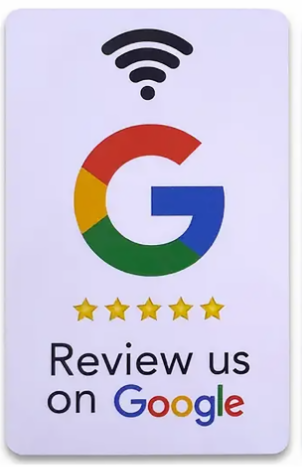
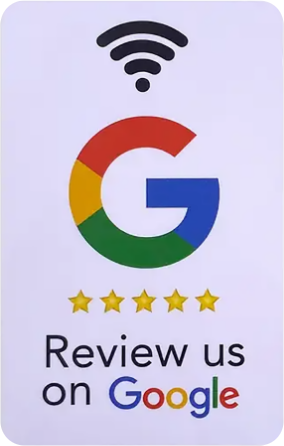
overall improvements

diff --git a/product-google.html b/product-google.html
@@ -75,20 +75,86 @@
             padding: 32px;
         }
 
-        /* 3D Vertical Card Showcase */
-        .card-showcase-scene {
+        /* 3D Vertical Card Scene */
+        .card-scene {
             perspective: 1200px;
-            display: inline-block;
+            width: 220px;
+            height: 346px;
+            margin: 0 auto;
+            user-select: none;
+            -webkit-user-select: none;
         }
 
-        .card-showcase-wrap {
-            transition: transform 0.25s ease-out, box-shadow 0.25s ease-out;
+        .card-3d-wrapper {
+            position: relative;
+            width: 100%;
+            height: 100%;
             transform-style: preserve-3d;
+            transition: transform 0.15s ease-out;
+            cursor: pointer;
         }
 
-        .card-showcase-wrap:hover {
-            transform: rotateX(6deg) rotateY(-8deg) translateY(-8px);
-            box-shadow: 0 30px 60px -15px rgba(37, 99, 235, 0.45);
+        .card-inner {
+            position: relative;
+            width: 100%;
+            height: 100%;
+            transform-style: preserve-3d;
+            transition: transform 0.7s cubic-bezier(0.4, 0, 0.2, 1);
+        }
+
+        .card-inner.is-flipped {
+            transform: rotateY(180deg);
+        }
+
+        .card-front,
+        .card-back {
+            position: absolute;
+            inset: 0;
+            width: 100%;
+            height: 100%;
+            -webkit-backface-visibility: hidden;
+            backface-visibility: hidden;
+            border-radius: 20px;
+            overflow: hidden;
+            -webkit-transform-style: flat;
+            transform-style: flat;
+            background: #ffffff;
+            box-shadow: 0 25px 60px -10px rgba(0, 0, 0, 0.75), 0 0 30px -5px rgba(59, 130, 246, 0.35);
+        }
+
+        .card-front {
+            transform: rotateY(0deg);
+            z-index: 2;
+        }
+
+        .card-back {
+            transform: rotateY(180deg);
+            z-index: 1;
+        }
+
+        .card-inner.is-flipped .card-front {
+            z-index: 1;
+        }
+
+        .card-inner.is-flipped .card-back {
+            z-index: 2;
+        }
+
+        .shine {
+            position: absolute;
+            top: 0;
+            left: 0;
+            right: 0;
+            bottom: 0;
+            border-radius: 20px;
+            background: radial-gradient(circle at 50% 50%, rgba(255, 255, 255, 0.45) 0%, transparent 70%);
+            pointer-events: none;
+            opacity: 0;
+            transition: opacity 0.3s;
+        }
+
+        .card-3d-wrapper:hover .shine {
+            opacity: 0.6;
         }
     </style>
     <link rel="stylesheet" href="lang/lang-picker.css">
@@ -135,19 +201,27 @@
                 <p class="text-blue-400 text-xs font-bold uppercase tracking-widest" data-i18n="google-hero-sub">Boost your Google Maps ranking and customer trust with 1 contactless tap.</p>
             </div>
 
-            <!-- Authentic Card Presentation -->
-            <div class="card-showcase-scene my-4">
-                <div class="card-showcase-wrap relative rounded-[28px] overflow-hidden p-2 bg-gradient-to-b from-white/20 via-blue-500/10 to-transparent border border-white/20 shadow-[0_20px_50px_-10px_rgba(0,0,0,0.8),0_0_30px_-5px_rgba(37,99,235,0.3)]">
-                    <img src="google-review.png" alt="SuperTap Google Review Card" class="w-64 sm:w-72 h-auto rounded-[24px] object-contain shadow-inner pointer-events-none">
+            <!-- Interactive 3D Card Scene -->
+            <div class="card-scene my-4" onmousemove="handleMove(event, this)" onmouseleave="handleLeave(this)" onclick="flip()">
+                <div class="card-3d-wrapper" id="card-wrapper">
+                    <div class="card-inner" id="card-inner">
+                        <div class="card-front" id="card-front-face">
+                            <img src="google-review.png" alt="Google Review Card Front" class="w-full h-full object-cover pointer-events-none select-none">
+                            <div class="shine"></div>
+                        </div>
+                        <div class="card-back" id="card-back-face">
+                            <img src="google-review.png" alt="Google Review Card Back" class="w-full h-full object-cover pointer-events-none select-none">
+                            <div class="shine"></div>
+                        </div>
+                    </div>
                 </div>
             </div>
 
-            <p class="text-slate-400 text-xs mt-4 font-semibold tracking-wider" data-i18n="google-back-blank-note">Premium durable contactless card with high-gloss finish.</p>
+            <p class="text-slate-500 text-[11px] mt-6 uppercase font-bold tracking-widest" data-i18n="flip-hint">Click to flip • Hover to rotate</p>
 
             <div class="mt-8 flex flex-col items-center">
                 <div class="text-4xl font-black italic text-white font-mono" data-i18n="price-google">200 DH</div>
                 <span class="inline-block mt-2 px-3 py-1 rounded-full text-xs font-bold text-emerald-400 bg-emerald-500/10 border border-emerald-500/20" data-i18n="sub-google">No Subscription (0 DH)</span>
-                <span class="inline-block mt-2 text-[11px] font-bold text-amber-400" data-i18n="google-bulk-note">Bulk discount: 45 DH per unit for orders of 20+ cards.</span>
             </div>
 
             <a href="https://wa.me/212674745463?text=Salam%20SuperTap,%20I%20want%20to%20order%20the%20Google%20Review%20Card%20(200%20DH%20-%20No%20Subscription)" class="btn-primary inline-block mt-6 px-12 py-4 rounded-2xl font-black uppercase tracking-widest text-sm shadow-xl text-white" data-i18n="cta-buy-google">Order Review Card — 200 DH</a>
@@ -267,6 +341,42 @@
                     .then(reg => console.log('SW registered!', reg))
                     .catch(err => console.log('SW registration failed:', err));
             });
+        }
+
+        let isFlipped = false;
+        let isFlipping = false;
+
+        function flip() {
+            if (isFlipping) return;
+            isFlipped = !isFlipped;
+            isFlipping = true;
+            const cardInner = document.getElementById('card-inner');
+            cardInner.classList.toggle('is-flipped', isFlipped);
+            setTimeout(() => {
+                isFlipping = false;
+                const scene = document.querySelector('.card-scene');
+                if (!scene.matches(':hover')) {
+                    document.getElementById('card-wrapper').style.transform = 'rotateX(0deg) rotateY(0deg)';
+                }
+            }, 750);
+        }
+
+        function handleMove(e, container) {
+            if (isFlipping) return;
+            const wrapper = container.querySelector('.card-3d-wrapper');
+            const rect = container.getBoundingClientRect();
+            const x = e.clientX - rect.left;
+            const y = e.clientY - rect.top;
+            const rotateX = ((rect.height / 2) - y) / 12;
+            const factor = isFlipped ? -1 : 1;
+            const rotateY = factor * ((x - (rect.width / 2)) / 12);
+            wrapper.style.transform = `rotateX(${rotateX}deg) rotateY(${rotateY}deg)`;
+        }
+
+        function handleLeave(container) {
+            if (isFlipping) return;
+            const wrapper = container.querySelector('.card-3d-wrapper');
+            wrapper.style.transform = 'rotateX(0deg) rotateY(0deg)';
         }
     </script>
 

diff --git a/store.html b/store.html
@@ -220,8 +220,8 @@
             </div>
             <div class="card-product p-8 md:p-12 rounded-[32px] flex flex-col md:flex-row items-center gap-8 border-blue-500/30 bg-blue-950/20">
                 <a href="product-google.html" class="w-full md:w-1/3 flex justify-center group">
-                    <div class="relative rounded-2xl overflow-hidden p-2 bg-gradient-to-b from-white/10 to-transparent border border-white/10 transition-transform group-hover:scale-95 shadow-[0_15px_35px_-5px_rgba(0,0,0,0.7)] flex items-center justify-center">
-                        <img src="google-review.png" alt="Google Review Card" class="w-48 md:w-56 h-auto rounded-xl object-contain">
+                    <div class="relative rounded-[20px] overflow-hidden shadow-[0_20px_45px_-10px_rgba(0,0,0,0.8),0_0_25px_-5px_rgba(37,99,235,0.3)] transition-transform group-hover:scale-95 flex items-center justify-center">
+                        <img src="google-review.png" alt="Google Review Card" class="w-40 sm:w-44 h-auto rounded-[20px] object-contain">
                     </div>
                 </a>
                 <div class="w-full md:w-2/3 flex flex-col">
